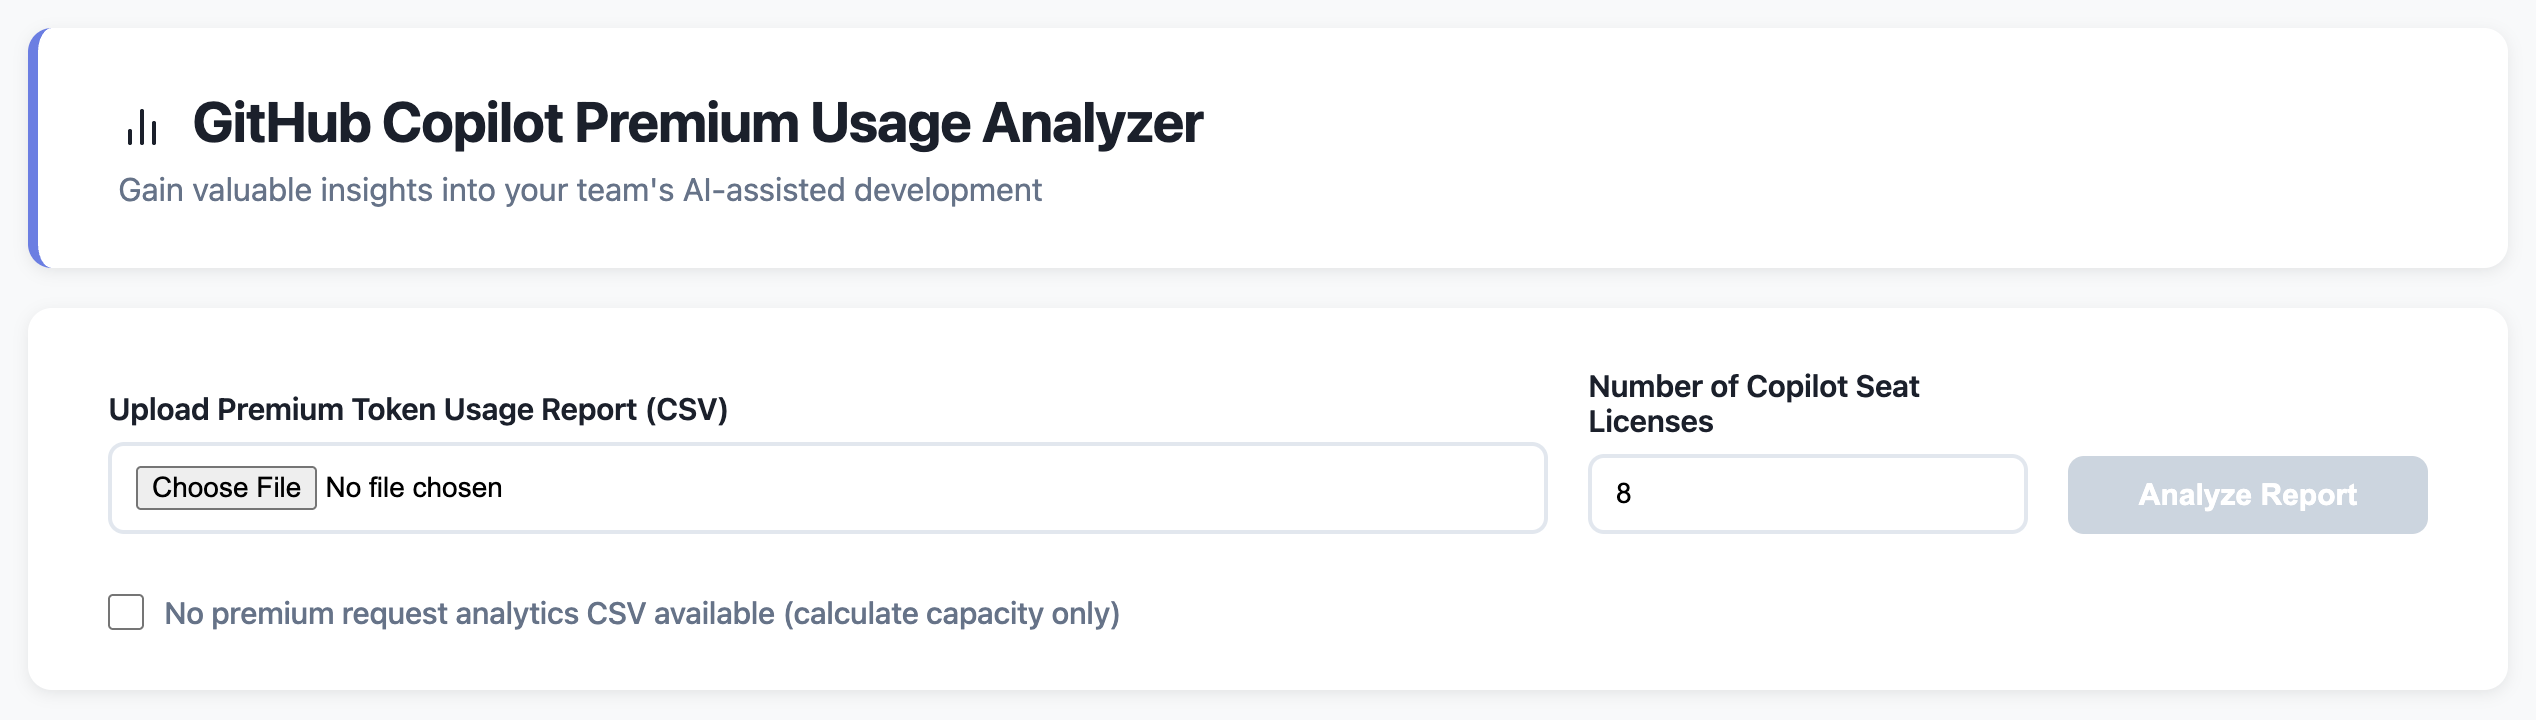
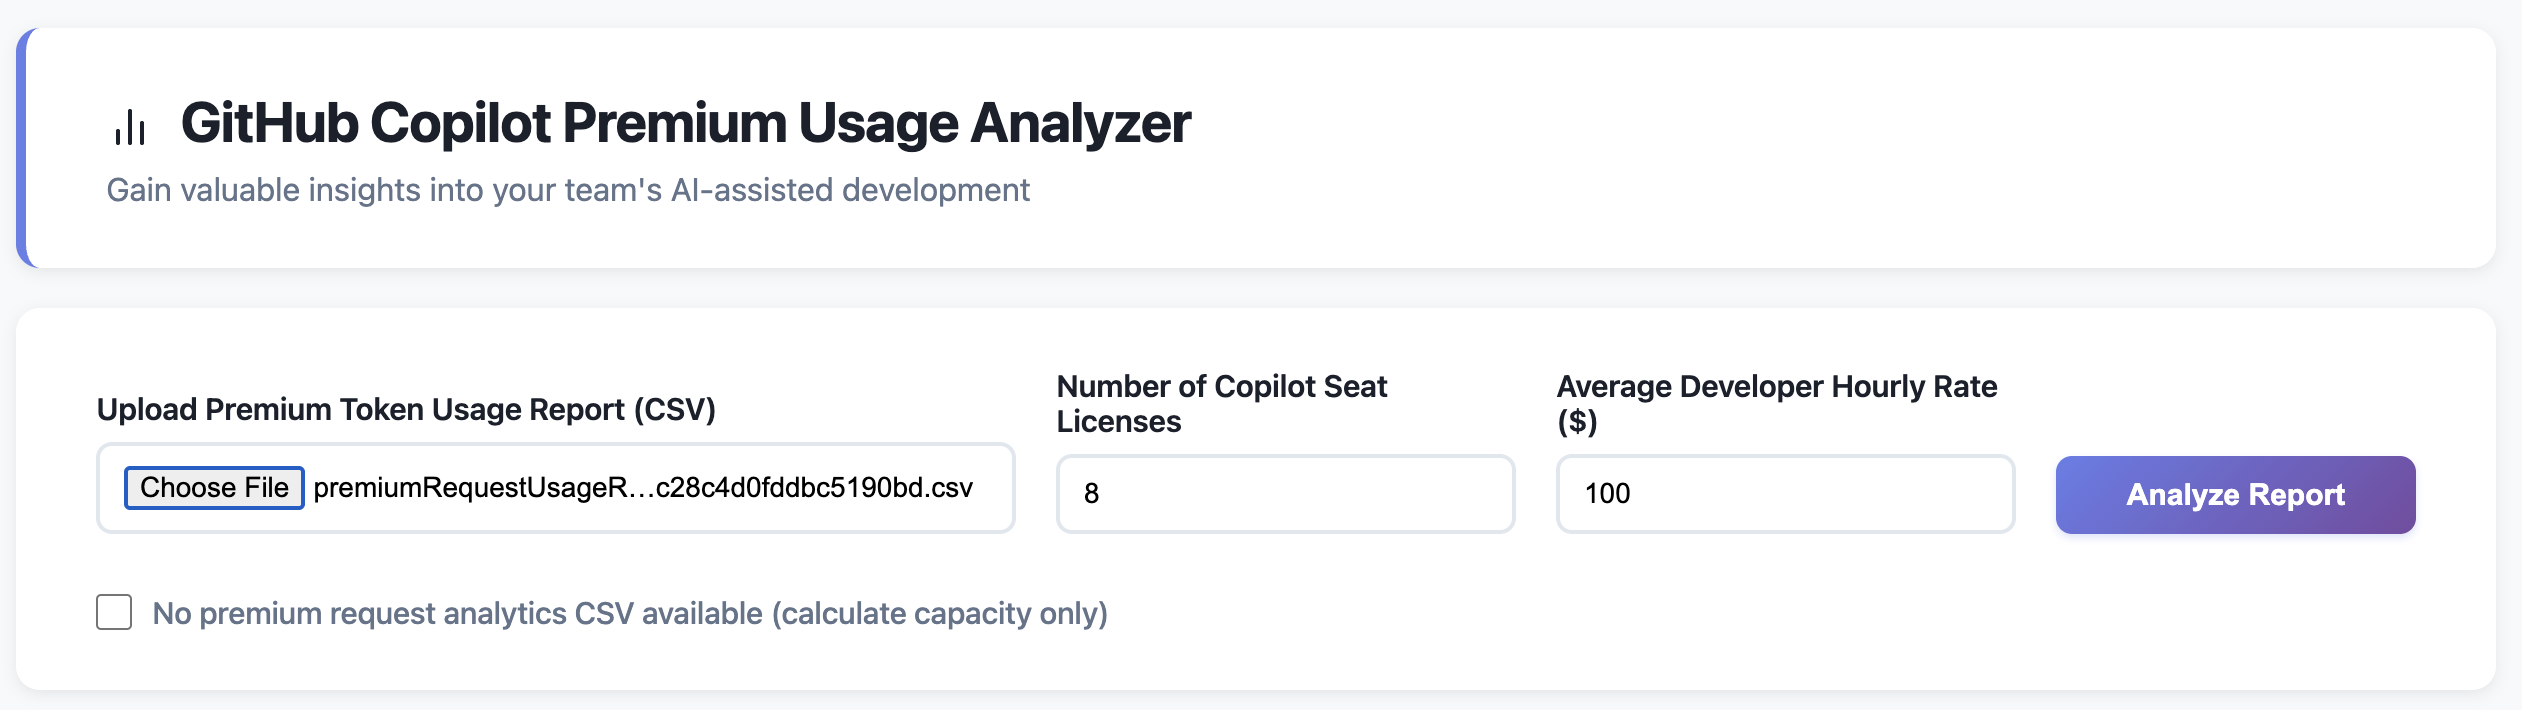
Enhance README.md and index.html: add average developer hourly rate input for customizable ROI calculations; update dollar value calculations to reflect user-specified rates; improve methodology notes for clarity. Update form screenshot.

Changed region(s): [[0.0309, 0.5268, 0.9588, 0.7746], [0.0, 0.031, 0.4948, 0.3718], [0.0309, 0.8366, 0.4639, 0.8986]]

diff --git a/index.html b/index.html
@@ -56,7 +56,7 @@
             box-shadow: 0 2px 8px rgba(0, 0, 0, 0.08);
             margin-bottom: 20px;
             display: grid;
-            grid-template-columns: 1fr 220px 180px;
+            grid-template-columns: 2fr 1fr 1fr 180px;
             gap: 20px;
             align-items: end;
         }
@@ -696,6 +696,11 @@
                 <input type="number" id="seatLicenses" min="1" placeholder="e.g., 8" value="8">
             </div>
 
+            <div class="input-group">
+                <label for="hourlyRate">Average Developer Hourly Rate ($)</label>
+                <input type="number" id="hourlyRate" min="1" placeholder="e.g., 100" value="100">
+            </div>
+
             <button class="btn" id="analyzeBtn" disabled>Analyze Report</button>
 
             <div class="checkbox-group">
@@ -792,9 +797,11 @@
     <script>
         let csvData = null;
         let seatCount = 0;
+        let hourlyRate = 100;
         
         const fileInput = document.getElementById('csvFile');
         const seatInput = document.getElementById('seatLicenses');
+        const hourlyRateInput = document.getElementById('hourlyRate');
         const analyzeBtn = document.getElementById('analyzeBtn');
         const noCsvCheckbox = document.getElementById('noCsvCheckbox');
         const dashboard = document.getElementById('dashboard');
@@ -819,9 +826,11 @@
 
         fileInput.addEventListener('change', checkInputs);
         seatInput.addEventListener('input', checkInputs);
+        hourlyRateInput.addEventListener('input', checkInputs);
 
         analyzeBtn.addEventListener('click', () => {
             seatCount = parseInt(seatInput.value);
+            hourlyRate = parseFloat(hourlyRateInput.value) || 100;
             
             if (noCsvCheckbox.checked) {
                 // No CSV file - analyze with zero usage
@@ -1219,11 +1228,10 @@
             const unusedRequests = totalAvailableRequests - usedRequests;
             const hoursLost = (unusedRequests / totalAvailableRequests) * totalHoursAvailable;
             
-            // Calculate dollar values at $100/hour
-            const developerHourlyRate = 100;
-            const totalValue = totalHoursAvailable * developerHourlyRate;
-            const usedValue = hoursUsed * developerHourlyRate;
-            const lostValue = hoursLost * developerHourlyRate;
+            // Calculate dollar values using the user-specified hourly rate
+            const totalValue = totalHoursAvailable * hourlyRate;
+            const usedValue = hoursUsed * hourlyRate;
+            const lostValue = hoursLost * hourlyRate;
             
             container.innerHTML = `
                 <div class="productivity-grid-three">
@@ -1264,7 +1272,7 @@
 
                 insights.push({
                     title: '<svg width="16" height="16" viewBox="0 0 24 24" fill="none" stroke="currentColor" stroke-width="2" stroke-linecap="round" stroke-linejoin="round" style="vertical-align: middle; margin-right: 4px;"><polyline points="23 6 13.5 15.5 8.5 10.5 1 18"></polyline><polyline points="17 6 23 6 23 12"></polyline></svg> Potential ROI',
-                    text: `At an average developer rate of $100/hr, your ${metrics.totalSeats} Premium seats represent approximately $${((metrics.totalSeats * 300 * 15 / 60) * 100).toLocaleString()} in monthly productivity capacity. This is the value you've pre-paid for that could be unlocked through adoption.`
+                    text: `At an average developer rate of $${hourlyRate}/hr, your ${metrics.totalSeats} Premium seats represent approximately $${((metrics.totalSeats * 300 * 15 / 60) * hourlyRate).toLocaleString()} in monthly productivity capacity. This is the value you've pre-paid for that could be unlocked through adoption.`
                 });
 
                 insights.push({
@@ -1336,14 +1344,14 @@
                 // ROI perspective
                 const estimatedTimeSaved = metrics.totalRequests * 5; // Assume 5 minutes saved per token usage
                 const savedHours = (estimatedTimeSaved / 60).toFixed(0);
-                const dollarValue = ((estimatedTimeSaved / 60) * 100).toFixed(0);
+                const dollarValue = ((estimatedTimeSaved / 60) * hourlyRate).toFixed(0);
                 
                 let roiText;
                 if (metrics.totalCost > 0) {
-                    const returnMultiple = (((estimatedTimeSaved / 60) * 100) / metrics.totalCost).toFixed(1);
-                    roiText = `With ${metrics.totalRequests.toLocaleString()} AI tokens used, your team potentially saved ~${savedHours} hours of development time this month. At an average developer rate of $100/hr, that's approximately $${dollarValue} in productivity value generated from a $${metrics.totalCost.toFixed(2)} usage cost (${returnMultiple}x return on incremental usage costs).`;
+                    const returnMultiple = (((estimatedTimeSaved / 60) * hourlyRate) / metrics.totalCost).toFixed(1);
+                    roiText = `With ${metrics.totalRequests.toLocaleString()} AI tokens used, your team potentially saved ~${savedHours} hours of development time this month. At an average developer rate of $${hourlyRate}/hr, that's approximately $${dollarValue} in productivity value generated from a $${metrics.totalCost.toFixed(2)} usage cost (${returnMultiple}x return on incremental usage costs).`;
                 } else {
-                    roiText = `With ${metrics.totalRequests.toLocaleString()} AI tokens used, your team potentially saved ~${savedHours} hours of development time this month. At an average developer rate of $100/hr, that's approximately $${dollarValue} in productivity value generated. Premium tokens are included in your license cost, making this additional value with no incremental usage fees.`;
+                    roiText = `With ${metrics.totalRequests.toLocaleString()} AI tokens used, your team potentially saved ~${savedHours} hours of development time this month. At an average developer rate of $${hourlyRate}/hr, that's approximately $${dollarValue} in productivity value generated. Premium tokens are included in your license cost, making this additional value with no incremental usage fees.`;
                 }
                 
                 insights.push({
@@ -1435,7 +1443,7 @@
             const totalHoursAvailable = totalMinutesAvailable / 60;
             
             const methodologyNote = document.getElementById('methodologyNote');
-            methodologyNote.innerHTML = `<strong>Methodology:</strong> Based on ${totalSeats} seats × ${monthlyQuotaPerSeat} premium requests × 15 minutes per request = ${totalMinutesAvailable.toLocaleString()} total minutes (${totalHoursAvailable.toFixed(0)} hours) at $100/hour developer rate.`;
+            methodologyNote.innerHTML = `<strong>Methodology:</strong> Based on ${totalSeats} seats × ${monthlyQuotaPerSeat} premium requests × 15 minutes per request = ${totalMinutesAvailable.toLocaleString()} total minutes (${totalHoursAvailable.toFixed(0)} hours) at $${hourlyRate}/hour developer rate.`;
         }
     </script>
 </body>

diff --git a/README.md b/README.md
@@ -119,6 +119,7 @@ Organization administrators should:
 3. **Upload and analyze**
    - Upload your CSV file (if available)
    - Enter your total number of Copilot seat licenses
+   - **Enter your average developer hourly rate** (defaults to $100/hr - adjust to match your organization's actual cost per developer hour including salary, benefits, and overhead)
    - If you don't have a CSV file, check "No premium request analytics CSV available" to see your total capacity potential
    - Click "Analyze Report"
 
@@ -252,16 +253,21 @@ Unused Capacity (Hours) = Unused Capacity (Minutes) ÷ 60
 
 ### Dollar Value Calculation
 
-All dollar values use a standard **$100/hour developer rate**:
+All dollar values are calculated using **your specified hourly developer rate** (defaults to $100/hour if not customized):
 
 ```
-Dollar Value = Hours × $100/hour
+Dollar Value = Hours × Hourly Rate
 ```
 
-**Example:**
-- Total Opportunity: 40 hrs × $100 = $4,000
-- Time Saved: 14.2 hrs × $100 = $1,420
-- Unused Potential: 25.8 hrs × $100 = $2,580
+**Example with default $100/hour rate:**
+- Total Opportunity: 600 hrs × $100 = $60,000
+- AI Capacity Used: 213 hrs × $100 = $21,300
+- Unused Potential: 387 hrs × $100 = $38,700
+
+**Example with custom $120/hour rate:**
+- Total Opportunity: 600 hrs × $120 = $72,000
+- AI Capacity Used: 213 hrs × $120 = $25,560
+- Unused Potential: 387 hrs × $120 = $46,440
 
 ### Adoption Rate
 
@@ -311,12 +317,19 @@ date,username,product,sku,model,quantity,unit_type,applied_cost_per_quantity,gro
 
 If you run a report mid-month, the "Unused Potential" represents tokens that are still available. The calculation remains valid - it shows what portion of the month's capacity has been used vs. what remains.
 
-### Developer Rate Assumption
+### Developer Rate Customization
 
-The tool uses a fixed **$100/hour** rate for all calculations. This is a conservative industry average for software developer costs (salary + benefits + overhead). You can mentally adjust by your actual rates:
+The tool allows you to **customize the hourly developer rate** to match your organization's actual costs. The default is **$100/hour**, which represents a conservative industry average for fully-loaded software developer costs (salary + benefits + overhead).
 
-- If your rate is $120/hr: multiply dollar values by 1.2
-- If your rate is $80/hr: multiply dollar values by 0.8
+**To set your organization's rate:**
+- Enter your actual average hourly cost in the "Average Developer Hourly Rate" field on the upload form
+- This rate should include:
+  - Base salary (annualized and divided by working hours)
+  - Benefits (health insurance, retirement, etc.)
+  - Overhead (office space, equipment, software licenses, etc.)
+  - Typical fully-loaded rates range from $75-150/hour depending on location and seniority
+
+**All dollar values in the report** (Total Opportunity, AI Capacity Used, Unused Potential, ROI calculations) will automatically use your specified rate, providing accurate financial metrics specific to your organization.
 
 ### Accuracy Limitations
 
@@ -452,8 +465,8 @@ A:
 **Q: How often should I run this analysis?**  
 A: Monthly is recommended. More frequent analysis (weekly) can help during initial rollout or adoption campaigns.
 
-**Q: Can I customize the $100/hour rate?**  
-A: Currently the rate is hardcoded. You can manually adjust the dollar values in your analysis by the appropriate multiplier.
+**Q: Can I customize the hourly developer rate?**  
+A: Yes! Enter your organization's actual average developer hourly rate in the "Average Developer Hourly Rate" field on the upload form. This should include salary, benefits, and overhead. The default is $100/hour, but you should adjust this to match your organization's actual costs for accurate ROI calculations.
 
 **Q: What if my CSV has a different format?**  
 A: The tool requires GitHub's standard export format. If you have custom data, you'll need to map it to the expected column structure.
